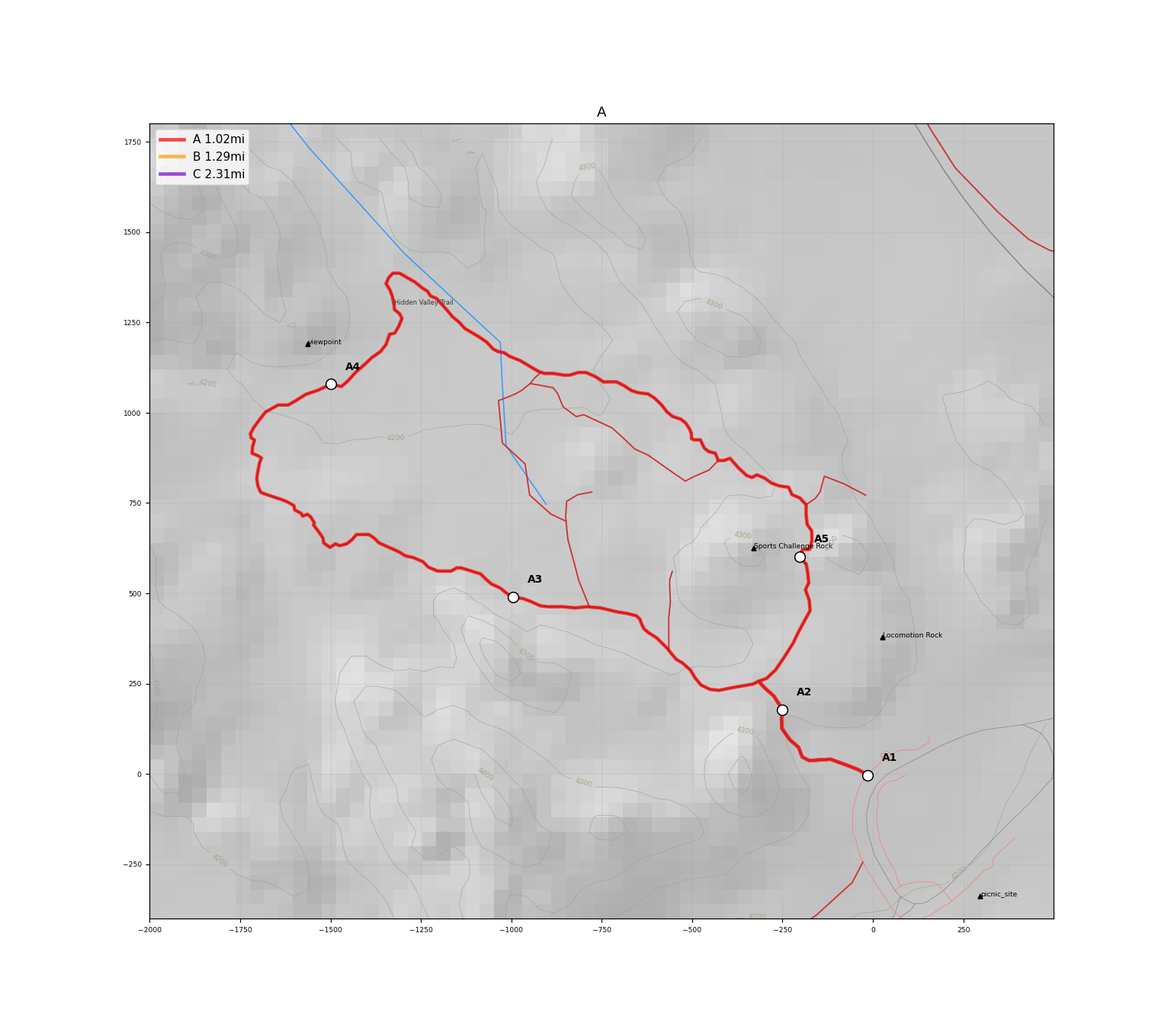
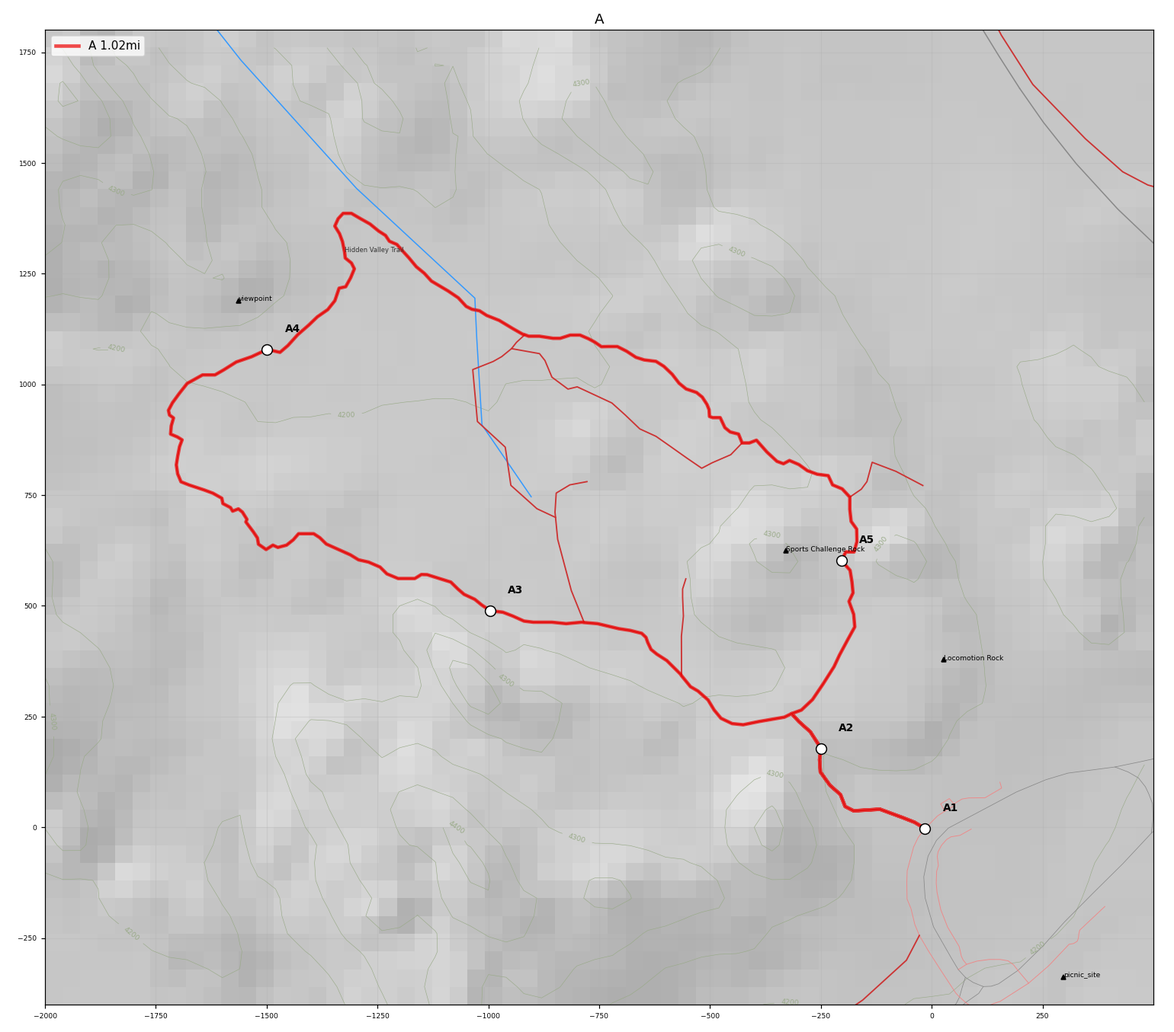
Review build: joshua-tree-hidden-valley

diff --git a/joshua-tree-hidden-valley/index.html b/joshua-tree-hidden-valley/index.html
@@ -571,8 +571,8 @@ const anim={};
   {const q=G(6540,6745),g=new THREE.Group();g.position.copy(q);g.rotation.y=1.289;world.add(g);
     part(g,box,"#BFB6A6",0,0.55,0,2.6,1.1,0.32,1.06);part(g,box,"#A79E8E",0,1.12,0,2.7,0.1,0.4,1.06);part(g,box,"#8E8576",0,0.25,0.22,2.6,0.5,0.12,1.06);}
   // reservoir (Barker Pool, OSM outline, enlarged)
-  {const P=[[6472,6596],[6542,6598],[6556,6604],[6560,6607],[6564,6612],[6570,6634],[6573,6640],[6576,6643],[6584,6648],[6599,6652],[6641,6657],[6651,6656],[6659,6654],[6669,6649],[6674,6644],[6680,6636],[6700,6597],[6702,6584],[6702,6556],[6673,6439],[6675,6429],[6680,6419],[6685,6414],[6696,6411],[6761,6419],[6782,6428],[6796,6439],[6817,6467],[6824,6472],[6829,6473],[6838,6472],[6844,6471],[6896,6425],[6913,6416],[6920,6415],[6929,6414],[6963,6419],[6973,6417],[6993,6407],[7014,6390],[7180,6212],[7204,6198],[7214,6195],[7226,6194],[7271,6199],[7280,6203],[7285,6208],[7291,6217],[7293,6223],[7294,6234],[7288,6290],[7292,6308],[7296,6314],[7302,6320],[7332,6338],[7348,6343],[7379,6348],[7576,6348],[7630,6344],[7723,6325],[7743,6326],[7749,6328],[7755,6332],[7767,6349],[7770,6355],[7770,6362],[7767,6367],[7760,6375],[7681,6416],[7614,6435],[7522,6448],[7489,6459],[7454,6481],[7332,6609],[7252,6680],[7199,6745],[7133,6858],[7125,6881],[7122,6896],[7123,6919],[7127,6933],[7137,6948],[7252,7056],[7283,7095],[7287,7104],[7288,7109],[7286,7115],[7283,7118],[7275,7119],[7232,7118],[7212,7111],[7190,7098],[7119,7025],[7099,7013],[7090,7010],[7020,7006],[6959,7018],[6955,7020],[6949,7025],[6947,7028],[6946,7033],[6953,7058],[6953,7061],[6952,7066],[6951,7068],[6949,7070],[6903,7094],[6900,7096],[6900,7098],[6900,7102],[6901,7105],[6923,7135],[6926,7144],[6926,7148],[6926,7153],[6919,7171],[6854,7242],[6852,7245],[6852,7249],[6852,7252],[6856,7259],[6859,7261],[6861,7262],[6866,7261],[6869,7260],[6896,7248],[6900,7247],[6904,7247],[6906,7249],[6907,7251],[6908,7256],[6906,7280],[6902,7291],[6895,7302],[6871,7325],[6868,7331],[6868,7335],[6871,7344],[6874,7348],[6921,7396],[6925,7400],[6927,7407],[6927,7410],[6925,7413],[6861,7433],[6805,7461],[6795,7470],[6784,7483],[6767,7523],[6756,7538],[6739,7553],[6678,7586],[6668,7588],[6663,7585],[6657,7577],[6655,7569],[6686,7392],[6726,7237],[6724,7222],[6719,7207],[6716,7203],[6713,7199],[6702,7192],[6667,7180],[6660,7179],[6655,7180],[6641,7184],[6598,7217],[6581,7223],[6524,7229],[6511,7236],[6506,7240],[6484,7283],[6396,7364],[6388,7368],[6385,7365],[6385,7354],[6471,7164],[6487,7102],[6481,6989],[6462,6931],[6444,6899],[6426,6813],[6347,6737],[6210,6717],[6126,6694],[6126,6674],[6128,6651],[6128,6642],[6126,6636],[6120,6632],[6118,6625],[6120,6617],[6122,6606],[6126,6596],[6132,6589],[6139,6584],[6147,6577],[6159,6533],[6175,6521],[6181,6503],[6280,6536],[6318,6573],[6472,6596]];if(P.length>2){const sh=new THREE.Shape(P.map(([x,n])=>new THREE.Vector2(x,n)));const geo=new THREE.ShapeGeometry(sh);const pa=geo.attributes.position;
-    let y0=1e9;for(let i=0;i<pa.count;i++){const v=G(pa.getX(i),pa.getY(i));y0=Math.min(y0,v.y);}
+  {const P=[[6329,6500],[6425,6503],[6444,6511],[6450,6515],[6454,6521],[6462,6552],[6467,6560],[6471,6564],[6482,6571],[6503,6577],[6560,6584],[6574,6583],[6584,6579],[6597,6573],[6604,6566],[6613,6555],[6640,6502],[6643,6484],[6643,6446],[6604,6286],[6605,6273],[6613,6258],[6620,6252],[6634,6248],[6724,6259],[6752,6271],[6771,6287],[6800,6325],[6809,6331],[6816,6333],[6828,6331],[6836,6329],[6907,6267],[6931,6255],[6940,6253],[6953,6252],[6998,6258],[7012,6256],[7040,6242],[7069,6219],[7295,5977],[7328,5958],[7340,5954],[7358,5951],[7418,5959],[7431,5965],[7438,5971],[7446,5983],[7449,5992],[7451,6006],[7442,6084],[7448,6108],[7453,6115],[7461,6124],[7501,6148],[7523,6156],[7567,6162],[7835,6162],[7908,6157],[8036,6131],[8062,6132],[8070,6135],[8078,6140],[8095,6163],[8099,6172],[8099,6181],[8095,6188],[8085,6199],[7978,6255],[7887,6281],[7760,6299],[7716,6314],[7668,6344],[7501,6518],[7393,6615],[7320,6704],[7230,6858],[7219,6888],[7215,6909],[7217,6941],[7222,6959],[7236,6980],[7393,7128],[7434,7181],[7441,7193],[7442,7200],[7439,7208],[7434,7212],[7424,7214],[7366,7212],[7338,7203],[7308,7184],[7212,7085],[7185,7069],[7172,7064],[7076,7059],[6994,7075],[6987,7078],[6980,7085],[6977,7089],[6976,7096],[6986,7130],[6986,7134],[6984,7141],[6983,7144],[6979,7147],[6917,7179],[6913,7182],[6912,7185],[6912,7191],[6914,7194],[6944,7235],[6948,7248],[6948,7253],[6948,7260],[6939,7284],[6850,7381],[6848,7385],[6847,7391],[6848,7395],[6853,7405],[6857,7407],[6860,7408],[6866,7407],[6871,7406],[6907,7390],[6913,7387],[6918,7389],[6921,7391],[6923,7394],[6924,7401],[6920,7433],[6915,7448],[6906,7463],[6873,7494],[6870,7502],[6870,7508],[6873,7520],[6877,7526],[6942,7591],[6947,7597],[6949,7606],[6949,7610],[6947,7615],[6860,7642],[6784,7680],[6769,7692],[6755,7710],[6731,7764],[6717,7785],[6693,7806],[6611,7850],[6596,7853],[6589,7849],[6581,7837],[6578,7826],[6622,7586],[6676,7374],[6673,7354],[6666,7334],[6661,7327],[6658,7323],[6643,7313],[6595,7297],[6585,7296],[6578,7297],[6559,7302],[6500,7347],[6478,7355],[6400,7363],[6382,7373],[6375,7379],[6346,7438],[6226,7547],[6214,7552],[6211,7549],[6211,7534],[6327,7275],[6350,7191],[6341,7036],[6316,6957],[6291,6914],[6267,6796],[6159,6693],[5972,6666],[5858,6634],[5857,6607],[5860,6575],[5860,6563],[5857,6555],[5849,6549],[5847,6540],[5849,6529],[5852,6514],[5858,6500],[5865,6491],[5876,6484],[5886,6475],[5902,6414],[5924,6398],[5933,6374],[6068,6418],[6119,6469],[6329,6500]];if(P.length>2){const sh=new THREE.Shape(P.map(([x,n])=>new THREE.Vector2(x,n)));const geo=new THREE.ShapeGeometry(sh);const pa=geo.attributes.position;
+    const y0=G(6864,6859).y+0.3;
     for(let i=0;i<pa.count;i++){const v=G(pa.getX(i),pa.getY(i));pa.setXYZ(i,v.x,y0+0.18,v.z);}
     pa.needsUpdate=true;geo.computeVertexNormals();const m=new THREE.Mesh(geo,new THREE.MeshLambertMaterial({color:"#8FC6DA",side:THREE.DoubleSide}));m.renderOrder=1;world.add(m);}}
   // petroglyph boulder: a dark-varnished overhanging rock
@@ -961,7 +961,7 @@ function fitFor(v,az,el){
   const fwd=dirOf(az,el).negate(),right=new THREE.Vector3().crossVectors(fwd,new THREE.Vector3(0,1,0)).normalize(),up=new THREE.Vector3().crossVectors(right,fwd).normalize();
   const pts=viewPoints(v);let mu=1e9,Mu=-1e9,mv=1e9,Mv=-1e9;pts.forEach(p=>{const u=p.dot(right),vv=p.dot(up);mu=Math.min(mu,u);Mu=Math.max(Mu,u);mv=Math.min(mv,vv);Mv=Math.max(Mv,vv);});
   const pad=v==="all"?1:1.25,du=(Mu-mu)*pad,dv=(Mv-mv)*pad,aw=Math.max(80,W-m.l-m.r),ah=Math.max(80,Hh-m.t-m.b);
-  let zoom=Math.min(aw*VIEW/(du*Hh),ah*VIEW/(dv*Hh));if(v!=="all")zoom=Math.min(zoom,fitFor("all",VIEWAZ.all,0.58).zoom*({"A": 4.2, "B": 5.0, "C": 3.4}[v]||2.4));
+  let zoom=Math.min(aw*VIEW/(du*Hh),ah*VIEW/(dv*Hh));if(v!=="all")zoom=Math.min(zoom,fitFor("all",VIEWAZ.all,0.58).zoom*({"A": 5.2, "B": 5.0, "C": 3.4}[v]||2.4));
   const wpp=VIEW/(Hh*zoom),target=new THREE.Vector3().copy(right).multiplyScalar((mu+Mu)/2).addScaledVector(up,(mv+Mv)/2).addScaledVector(right,-(m.l-m.r)/2*wpp).addScaledVector(up,(m.t-m.b)/2*wpp);
   return {zoom,target};}
 function fitGoal(){if(!stage.clientWidth||!stage.clientHeight)return;const f=fitFor(view,goal.az,goal.el);goal.zoom=f.zoom;goal.target.copy(f.target);}

diff --git a/_review/jthiddenvalley/jthiddenvalley_sheet.py b/_review/jthiddenvalley/jthiddenvalley_sheet.py
@@ -1,0 +1,267 @@
+from lib import *
+from mk_sheet import build
+import sys, json, os, re, math, random
+import numpy as np
+
+os.chdir('/home/claude/parks')
+# origin: Hidden Valley Nature Trail trailhead (Hiking Project 34.012391, -116.168039)
+p = Park('jthiddenvalley', 34.0124, -116.1680)
+TH = (-15, -3)            # Hidden Valley trailhead, picnic area
+LOT = (7840, 4640)        # Barker Dam parking area (B west side, C east side)
+MILL = (10415, 9054)      # end of the OSM Wall Street Mill Trail at the mill
+R = {}
+R['A'] = route_xy(p, TH, (-550, 240), (-1600, 900), (-1250, 1380), (-170, 720), TH)
+R['B'] = route_xy(p, LOT, (7050, 6490), (6100, 6000), (6340, 5050), (7000, 5150), LOT)
+R['C'] = route_xy(p, LOT, MILL, LOT)
+for k in R: Park.smooth_E(R[k], 9); p.describe(R[k], k)
+am = lambda k, mi: p.at_mile(R[k], mi)[0]
+ST = snap_stops(p, R, {
+    'S1': (*LOT, 'BC'),
+    'A1': (*TH, 'A'), 'A2': (-250, 178, 'A'), 'A3': (-996, 489, 'A'), 'A4': (-1499, 1079, 'A'), 'A5': (-203, 602, 'A'),
+    'B1': (7209, 6158, 'B'), 'B2': (6540, 6720, 'B'), 'B3': (6212, 5828, 'B'), 'B4': (6353, 5032, 'B'),
+    'C1': (10117, 6621, 'C'), 'C2': (10524, 7611, 'C'), 'C3': (*am('C', 0.97), 'C'), 'C4': (*MILL, 'C'),
+})
+TILE = (-5200, 14200, -3750, 12750)
+GRID = (-5600, 14600, -4100, 13100)
+if 'plot' in sys.argv:
+    from plot import plot
+    sa = {k: v for k, v in ST.items() if k.startswith('A')}
+    sb = {k: v for k, v in ST.items() if not k.startswith('A')}
+    plot(p, (-2000, 500, -400, 1800), 'jthiddenvalley/routes_A.png', routes={'A': R['A']}, stops=sa, title='A', grid=250)
+    plot(p, (5500, 11000, 4200, 9500), 'jthiddenvalley/routes_BC.png', routes={'B': R['B'], 'C': R['C']}, stops=sb, title='BC', grid=500)
+    sys.exit()
+
+STEP = 100
+b64, NX, NN = p.dem_b64(*GRID, STEP=STEP)
+RIDGE = int(np.percentile(p.grid, 75))
+print('grid', NX, NN, NX * NN, p.grid.min(), p.grid.max(), 'p75', RIDGE)
+
+S = lambda i: ST[i]
+stops = [
+ dict(id='S1', trails=['B', 'C'], x=S('S1')[0], n=S('S1')[1], name='Barker Dam parking area', desc='A paved lot at the end of Barker Dam Road with vault toilets. The Barker Dam loop leaves from its west side and the Wall Street Mill trail from its east side. It fills by midday on busy days.'),
+ dict(id='A1', trails=['A'], x=S('A1')[0], n=S('A1')[1], name='Hidden Valley trailhead', desc='At the Hidden Valley picnic area on Park Boulevard. No water here or on the trail.'),
+ dict(id='A2', trails=['A'], x=S('A2')[0], n=S('A2')[1], name='Gap in the rock wall', desc='Steps lead up and over a low gap into the valley. In 1936 rancher Bill Keys blasted this notch through the boulders so his cattle could reach the grass inside.'),
+ dict(id='A3', trails=['A'], x=S('A3')[0], n=S('A3')[1], name='Valley floor', desc='A flat, sandy floor ringed by boulder walls. The enclosure catches more rain than the land around it, so plants grow thicker here, with Joshua trees, yuccas, cacti, pinyon pines and scrub oaks side by side. Signs along the way name them.'),
+ dict(id='A4', trails=['A'], x=S('A4')[0], n=S('A4')[1], name='Far end of the valley', desc='The loop’s halfway point, an open, level spot at the back of the valley looking back toward the entrance. The valley was rumored to have hidden cattle rustlers and their herds.'),
+ dict(id='A5', trails=['A'], x=S('A5')[0], n=S('A5')[1], name='Sports Challenge Rock', desc='Near the end of the loop the trail climbs a few steps past this tall, smooth rock face, one of the park’s best-known climbing walls. Climbers are often on it in the cooler months.'),
+ dict(id='B1', trails=['B'], x=S('B1')[0], n=S('B1')[1], name='Into the boulders', desc='The trail winds north between piles of rounded monzogranite at the southern edge of the Wonderland of Rocks.'),
+ dict(id='B2', trails=['B'], x=S('B2')[0], n=S('B2')[1], name='Barker Dam', desc='Cattlemen including C. O. Barker built the dam around 1900 to hold rainwater for stock. Rancher Bill Keys raised it six feet in 1949–50; his inscription on top calls it Big Horn Dam. The water level depends on rain. When the reservoir is full it draws birds and desert bighorn sheep.'),
+ dict(id='B3', trails=['B'], x=S('B3')[0], n=S('B3')[1], name='Joshua tree flats', desc='Past the dam the trail drops onto open, sandy flats of Joshua trees, yuccas and cacti, passing an old cattle trough.'),
+ dict(id='B4', trails=['B'], x=S('B4')[0], n=S('B4')[1], name='Petroglyphs', desc='A short side path leads to an overhanging boulder with Native American petroglyphs. A Disney film crew painted over the carvings in 1961 to make them show on camera, so they look brighter than the originals. Look, don’t touch.'),
+ dict(id='C1', trails=['C'], x=S('C1')[0], n=S('C1')[1], name='Windmill', desc='An old, rusting windmill stands just right of the trail. A side trail before it leads to the ruins of Wonderland Ranch.'),
+ dict(id='C2', trails=['C'], x=S('C2')[0], n=S('C2')[1], name='Worth Bagley stone', desc='Here Bill Keys and his neighbor Worth Bagley met in a 1943 gunfight over the road to the mill; Bagley was killed. Keys served five years for manslaughter, was pardoned in 1956, and later set this stone himself. The original was vandalized in 2014; a steel replica stands in its place.'),
+ dict(id='C3', trails=['C'], x=S('C3')[0], n=S('C3')[1], name='Sandy wash', desc='For the last stretch the trail drops into a sandy wash that leads to the mill, past rusted-out cars from the 1930s and 1940s.'),
+ dict(id='C4', trails=['C'], x=S('C4')[0], n=S('C4')[1], name='Wall Street Mill', desc='Bill Keys built this two-stamp mill in 1933 to crush gold ore, and ran it for miners in the area for decades. The mill shed, well and pump, ore-cart rails and winch still stand against a pile of white granite boulders. Leave everything in place.'),
+]
+stops, order = renumber(p, R, stops)
+print(order, [(s['id'], s['name']) for s in stops])
+trails = [
+ dict(id='A', name='Hidden Valley Nature Trail', short='Hidden Valley', official=1.0, unit='loop', route='Loop', time='1 hr', level='Easy', color='--tA',
+      desc='From the Hidden Valley picnic area, steps lead through a gap in the boulders into a small valley walled in by rock. The sandy loop circles the valley floor past signs about its plants and animals; the enclosure holds more moisture than the desert around it. Rock climbers are often on the walls. No dogs.', anchors=p.anchors(R['A'], every=40)),
+ dict(id='B', name='Barker Dam Trail', short='Barker Dam', official=1.1, unit='loop', route='Loop', time='1 hr', level='Easy', color='--tB',
+      desc='A nearly flat loop from the west side of the Barker Dam lot, usually walked counterclockwise. It threads north between boulders to the small reservoir behind Barker Dam, then returns south across Joshua tree flats with a short side path to a petroglyph boulder. Busy at midday.', anchors=p.anchors(R['B'], every=50)),
+ dict(id='C', name='Wall Street Mill Trail', short='Wall Street Mill', official=2.0, unit='round trip', route='Out and back', time='1–1.5 hr', level='Moderate', color='--tC',
+      desc='From the east side of the Barker Dam lot, a flat, sandy trail heads northeast across open desert past an old windmill, the Worth Bagley stone and rusting cars to Bill Keys’ Wall Street Mill, where gold ore was crushed until the 1960s. Little shade. A smaller lot off Queen Valley Road shortens the walk.', anchors=p.anchors(R['C'])),
+]
+
+# ---- animals (spread out along the trails)
+pa = place_along
+A_ = lambda k, f, s=1, o=240: pa(p, R[k], f, s, o)
+an = []
+an += [f'{{k:"bighorn",path:{js(A_("B",[.3],1,450)[0]+A_("B",[.34],1,450)[0])},per:30}}', f'{{k:"bighorn",at:{js(A_("C",[.58],-1,900)[0])},flock:2}}']
+an += [f'{{k:"coyote",path:{js(A_("C",[.2],1,380)[0]+A_("C",[.25],1,380)[0])},per:24}}']
+an += [f'{{k:"squirrel",at:{js(A_("A",[.3],1,120)[0])},hop:true}}', f'{{k:"squirrel",at:{js(A_("C",[.33],-1,200)[0])},hop:true}}']
+an += [f'{{k:"quail",at:{js(A_("B",[.8],-1,220)[0])},flock:3}}']
+an += [f'{{k:"snake",path:{js(A_("A",[.7],1,110)[0]+A_("A",[.72],1,110)[0])},per:30}}']
+an += [f'{{k:"turtle",path:{js(A_("C",[.12],-1,300)[0]+A_("C",[.13],-1,300)[0])},per:60}}']
+an += [f'{{k:"heron",at:[6745,6735]}}']
+animals_js = '[\n ' + ',\n '.join(an) + '\n]'
+
+# ---- terrain dressing: boulder piles at OSM rock features, Joshua trees on the flats
+X0i, X1i, N0i, N1i = TILE[0] + 1200, TILE[1] - 1200, TILE[2] + 1200, TILE[3] - 1200
+TP = np.array([q for k in R for q in R[k]['pts']])
+def near_trail(x, n, d): return np.min(np.hypot(TP[:, 0] - x, TP[:, 1] - n)) < d
+piles = []
+for w in p.W:
+    t = w.get('tags') or {}
+    if t.get('natural') not in ('bare_rock', 'stone') and not t.get('climbing'): continue
+    P = np.array([p.xy(q) for q in w['p']]); cx, cn = P.mean(0)
+    if not (X0i < cx < X1i and N0i < cn < N1i): continue
+    r = max(70, min(380, (np.ptp(P[:, 0]) + np.ptp(P[:, 1])) / 4))
+    if near_trail(cx, cn, 60 + r * 0.6): continue
+    if any(math.hypot(cx - a, cn - b) < 90 for a, b, _ in piles): continue
+    piles.append((round(cx), round(cn), round(r)))
+# monzogranite ridges: add piles on rough high ground the OSM points miss
+rng = random.Random(7)
+def slope(x, n): return math.hypot(p.elev(x + 60, n) - p.elev(x - 60, n), p.elev(x, n + 60) - p.elev(x, n - 60)) / 120
+tries = 0
+while len([1 for q in piles]) < 230 and tries < 6000:
+    tries += 1
+    x, n = rng.uniform(X0i, X1i), rng.uniform(N0i, N1i)
+    if slope(x, n) < 0.22 or near_trail(x, n, 120): continue
+    if any(math.hypot(x - a, n - b) < 260 for a, b, _ in piles): continue
+    piles.append((round(x), round(n), rng.choice([90, 130, 180, 240])))
+jts = []
+tries = 0
+while len(jts) < 260 and tries < 20000:
+    tries += 1
+    x, n = rng.uniform(X0i, X1i), rng.uniform(N0i, N1i)
+    if slope(x, n) > 0.12 or near_trail(x, n, 70): continue
+    if any(math.hypot(x - a, n - b) < 140 for a, b, _ in piles): continue
+    if any(math.hypot(x - a, n - b) < 230 for a, b, _, _ in jts): continue
+    jts.append((round(x), round(n), round(rng.uniform(1.3, 2.3), 2), rng.randrange(6)))
+print('piles', len(piles), 'jtrees', len(jts))
+
+W = json.load(open('jthiddenvalley/water.json')) if os.path.exists('jthiddenvalley/water.json') else {}
+pool = [p.xy(q) for q in p.WID['678429824']['p']] if '678429824' in p.WID else []
+dam = [p.xy(q) for q in p.WID['1575997759']['p']] if '1575997759' in p.WID else [(6525, 6797), (6555, 6694)]
+pcx, pcn = (np.mean([a for a, b in pool]), np.mean([b for a, b in pool])) if pool else (6740, 6730)
+POOL = [[round(pcx + (a - pcx) * 3.0), round(pcn + (b - pcn) * 3.0)] for a, b in pool]   # drawn larger than life
+d0, d1 = dam[0], dam[-1]
+dmx, dmn = (d0[0] + d1[0]) / 2, (d0[1] + d1[1]) / 2
+dang = math.atan2(d1[1] - d0[1], d1[0] - d0[0])
+g = {s['name']: s for s in stops}
+a1, s1 = g['Hidden Valley trailhead'], g['Barker Dam parking area']
+lm = """  gate(%(ax)d,%(an)d,0.6);gate(%(sx)d,%(sn)d,0.2);
+  // monzogranite boulder piles (OSM rock features plus rough high ground)
+  function pile(x,n,r,i){const q=G(x,n),s=r*0.0068,g=new THREE.Group();g.position.copy(q);g.rotation.y=i*0.9;world.add(g);
+    const cs=["#D8C3A2","#CDB592","#E2CFB0"];const k=3+(i%%3);
+    for(let j=0;j<k;j++){const a=j/k*Math.PI*2+i,d=j?0.45*s:0;const b=part(g,new THREE.IcosahedronGeometry(1,1),cs[(i+j)%%3],Math.cos(a)*d,(j?0.32:0.48)*s,Math.sin(a)*d,(j?0.42:0.6)*s,(j?0.34:0.5)*s,(j?0.4:0.55)*s,1.06);rot(b,0.2*j,a,0.1);}}
+  %(piles)s.forEach(([x,n,r],i)=>pile(x,n,r,i));
+  // Joshua trees: shaggy trunk, a few angled arms, spiky leaf clusters at the tips
+  function jtree(x,n,h,i){const g=new THREE.Group();g.position.copy(G(x,n));g.rotation.y=i*1.1;world.add(g);const tc="#7E6C55",lc="#7C8F4A";
+    const t0=h*(0.45+0.08*(i%%3));part(g,cyl,tc,0,t0/2,0,0.09,t0,0.09,1.05);
+    const arms=[[0.7,0],[-0.6,2.2],[0.5,4.1],[-0.8,1.1]].slice(0,2+(i%%3));
+    arms.forEach(([tl,az],j)=>{const a=new THREE.Group();a.position.set(0,t0,0);a.rotation.y=az+i;g.add(a);
+      const len=h*(0.38+0.06*j);const b=part(a,cyl,tc,0,len/2,0,0.06,len,0.06,1.05);
+      const sub=new THREE.Group();sub.rotation.z=tl;a.add(sub);sub.add(b);b.position.set(0,len/2,0);
+      const tip=new THREE.Vector3(0,len,0);part(sub,new THREE.IcosahedronGeometry(1,0),lc,tip.x,tip.y+0.08,tip.z,0.2,0.18,0.2,1.1);
+      for(let s=0;s<5;s++){const c=part(sub,new THREE.ConeGeometry(0.05,0.32,4),lc,tip.x,tip.y+0.08,tip.z,1,1,1,1.1);rot(c,Math.cos(s*1.26)*1.0,0,Math.sin(s*1.26)*1.0);}});}
+  %(jts)s.forEach(([x,n,h,i])=>jtree(x,n,h,i));
+  // Barker Dam: concrete wall on the OSM dam line, drawn larger than life
+  {const q=G(%(dmx)d,%(dmn)d),g=new THREE.Group();g.position.copy(q);g.rotation.y=%(dry).3f;world.add(g);
+    part(g,box,"#BFB6A6",0,0.55,0,2.6,1.1,0.32,1.06);part(g,box,"#A79E8E",0,1.12,0,2.7,0.1,0.4,1.06);part(g,box,"#8E8576",0,0.25,0.22,2.6,0.5,0.12,1.06);}
+  // reservoir (Barker Pool, OSM outline, enlarged)
+  {const P=%(pool)s;if(P.length>2){const sh=new THREE.Shape(P.map(([x,n])=>new THREE.Vector2(x,n)));const geo=new THREE.ShapeGeometry(sh);const pa=geo.attributes.position;
+    const y0=G(%(pcx)d,%(pcn)d).y+0.3;
+    for(let i=0;i<pa.count;i++){const v=G(pa.getX(i),pa.getY(i));pa.setXYZ(i,v.x,y0+0.18,v.z);}
+    pa.needsUpdate=true;geo.computeVertexNormals();const m=new THREE.Mesh(geo,new THREE.MeshLambertMaterial({color:"#8FC6DA",side:THREE.DoubleSide}));m.renderOrder=1;world.add(m);}}
+  // petroglyph boulder: a dark-varnished overhanging rock
+  {const q=G(%(px)d,%(pn)d),g=new THREE.Group();g.position.copy(q);g.rotation.y=0.4;world.add(g);
+    part(g,new THREE.IcosahedronGeometry(1,1),"#D2BC98",0,0.7,0,1.1,0.8,0.9,1.06);part(g,new THREE.IcosahedronGeometry(1,1),"#C8B08A",0.5,1.3,0.1,0.9,0.45,0.75,1.06);
+    part(g,box,"#5A3E2E",0.05,0.75,0.88,0.9,0.5,0.04,0);[[-0.2,0.85],[0.15,0.7],[0.35,0.9]].forEach(([x,y])=>part(g,box,"#E9D6B0",x,y,0.91,0.12,0.12,0.02,0));}
+  // windmill: lattice tower with a bladed wheel and tail vane
+  {const q=G(%(wx)d,%(wn)d),g=new THREE.Group();g.position.copy(q);g.rotation.y=0.9;world.add(g);const c="#7A5A44";
+    [[1,1],[1,-1],[-1,1],[-1,-1]].forEach(([a,b])=>{const l=part(g,cyl,c,a*0.45,2.2,b*0.45,0.08,4.5,0.08,1.06);rot(l,-b*0.1,0,a*0.1);});
+    [1.0,2.1,3.2].forEach((y,i)=>part(g,box,c,0,y,0,0.85-i*0.2,0.08,0.85-i*0.2,1.06));
+    const hub=new THREE.Group();hub.position.set(0.3,4.55,0);g.add(hub);part(hub,cyl,"#5A5A5A",0,0,0,0.12,0.25,0.12,0).rotation.z=Math.PI/2;
+    for(let b=0;b<12;b++){const bl=part(hub,box,"#9AA0A3",0.05,0,0,0.06,1.0,0.22,1.06);const a=b/12*Math.PI*2;bl.position.set(0.05,Math.cos(a)*0.6,Math.sin(a)*0.6);bl.rotation.x=a;}
+    part(g,box,"#9AA0A3",-0.6,4.55,0,1.1,0.08,0.06,1.06);part(g,box,"#B5523B",-1.2,4.55,0,0.08,0.55,0.75,1.06);}
+  // Worth Bagley stone (steel replica), upright and oversized
+  {const q=G(%(bx)d,%(bn)d);part(world,box,"#B9A98E",q.x,q.y+0.1,q.z,1.2,0.2,0.7,1.06);part(world,box,"#6E3F2A",q.x,q.y+1.05,q.z,0.9,1.8,0.25,1.06);}
+  // Wall Street Mill: tin-sided mill shed, ore chute, a rusted truck
+  {const q=G(%(mx)d,%(mn)d),g=new THREE.Group();g.position.copy(q);g.rotation.y=0.5;world.add(g);
+    part(g,box,"#8C98A0",0,0.8,0,1.6,1.6,1.2,1.06);const r=part(g,box,"#6F7B83",0,1.75,0,1.8,0.12,1.4,1.06);rot(r,0.18,0,0);
+    part(g,box,"#7A5A44",1.0,1.2,0,0.25,2.4,0.25,1.06);const ch=part(g,box,"#7A5A44",1.9,1.5,0,2.0,0.14,0.3,1.06);rot(ch,0,0,-0.35);
+    part(g,box,"#8A4B2E",-1.6,0.3,0.9,0.9,0.35,0.45,1.06);part(g,box,"#7A4028",-1.85,0.6,0.9,0.4,0.3,0.42,1.06);
+    [[-1.3,0.7],[-1.3,1.1],[-1.95,0.7],[-1.95,1.1]].forEach(([x,z])=>{const w=part(g,cyl,"#2E2A26",x,0.13,z,0.13,0.08,0.13,0);rot(w,Math.PI/2,0,0);});}
+""" % dict(ax=a1['x'] + 60, an=a1['n'] - 40, sx=s1['x'] + 40, sn=s1['n'] - 60,
+           piles=js(piles), jts=js(jts), dmx=dmx, dmn=dmn, dry=-dang, pool=js(POOL), pcx=pcx, pcn=pcn,
+           px=g['Petroglyphs']['x'] - 70, pn=g['Petroglyphs']['n'] - 30, wx=10117, wn=6621, bx=10524, bn=7611,
+           mx=10430, mn=9110)
+
+def wid(i): return i if i in p.WID else int(i)
+creeks = []
+for cid, ids in (('hv', ['422107525']), ('barker', ['422107517', '422107518', '422107523']), ('wsm', ['752875052'])):
+    try:
+        c = p.creek([wid(i) for i in ids], GRID, minor=True)
+        if c and c.get('pts'): creeks.append(dict(id=cid, **c))
+    except Exception as ex: print('creek', cid, ex)
+print('creeks', [c['id'] for c in creeks])
+
+species_extra = {
+ 'jt_joshua': 'jt_joshua:{name:"Joshua tree",latin:"Yucca brevifolia",color:"#EDEBCF",shape:"yucca",bloom:[2,3,4],sum:"The park’s namesake, a tree-sized yucca with shaggy trunks and clusters of stiff, spiky leaves. Thick on the flats around Barker Dam and along the Wall Street Mill trail. In spring some branch tips carry heavy clusters of creamy flowers, pollinated only by the yucca moth.",rule:(d,e,g,s)=>g<0.4}',
+ 'jt_mojyucca': 'jt_mojyucca:{name:"Mojave yucca",latin:"Yucca schidigera",color:"#F3EFDF",shape:"yucca",bloom:[2,3,4],sum:"A shorter, shrubby yucca with long, sharp leaves and cream flower clusters in late winter and early spring, also pollinated by yucca moths.",rule:(d,e,g,s)=>g<0.6}',
+ 'beavertail': 'beavertail:{name:"Beavertail cactus",latin:"Opuntia basilaris",color:"#D9418C",shape:"pad",bloom:[3,4,5],sum:"Flat, blue-gray pads that look spineless (the tiny bristles still hurt), with bright magenta flowers in spring. Rangers log it around Barker Dam.",rule:(d,e,g,s)=>g<0.8}',
+ 'jt_mojmound': 'jt_mojmound:{name:"Mojave mound cactus",latin:"Echinocereus triglochidiatus",color:"#D0283A",shape:"pad",bloom:[4,5],sum:"Mounds of ribbed, spiny stems tucked among boulders, covered in waxy scarlet cups in April and May. Hummingbirds pollinate them.",rule:(d,e,g,s)=>g>0.15}',
+ 'jt_goldenbush': 'jt_goldenbush:{name:"Interior goldenbush",latin:"Ericameria linearifolia",color:"#F2C230",shape:"dome",bloom:[3,4,5],sum:"A rounded shrub with narrow, sticky leaves that covers itself in yellow daisy-like flowers in spring. Among the most common spring bloomers around Barker Dam.",rule:(d,e,g,s)=>g<0.7}',
+ 'jt_dudleya': 'jt_dudleya:{name:"Rock live-forever",latin:"Dudleya saxosa",color:"#E8C64A",shape:"tube",bloom:[4,5,6],sum:"A succulent with fleshy gray-green rosettes wedged into cracks in the granite, sending up reddish stalks of small tubular flowers in late spring.",rule:(d,e,g,s)=>g>0.25}',
+}
+tree_rule = """if(mk<0.25){type=null;}
+    else if(cd<200){type=tr()<.45?"oak":"shrub";p=0.14;}
+    else if(g>0.9)type=null;
+    else{type=tr()<.15?"oak":"shrub";p=0.03+cl*.02;}"""
+
+# ---- photos
+MD = json.load(open('/mnt/files/gtb/photos/jthiddenvalley/photos_meta.json'))
+MM = {m['f']: m for v in MD.values() for m in v}
+def ph(*fs): return [dict(MM['../photos/' + f + '.jpg']) for f in fs if '../photos/' + f + '.jpg' in MM]
+SPM = {}
+for page in os.listdir('/home/claude/site/out'):
+    fp = '/home/claude/site/out/%s/index.html' % page
+    if not os.path.exists(fp): continue
+    for m in re.findall(r'\{"f":"\.\./photos/sp_[^}]*\}', open(fp).read()):
+        try: d = json.loads(m); SPM[d['f'].split('/')[-1][:-4]] = d
+        except Exception: pass
+def sp(*fs):
+    out = []
+    for f in fs:
+        if f in SPM: out.append(SPM[f])
+        elif '../photos/' + f + '.jpg' in MM: out.append(dict(MM['../photos/' + f + '.jpg']))
+        else: print('missing photo', f)
+    return out
+nm = {s['name']: s['id'] for s in stops}
+stop_photos = {nm['Hidden Valley trailhead']: ph('pl_jthiddenvalley_hv_1'),
+               nm['Valley floor']: ph('pl_jthiddenvalley_hvtrail_1', 'pl_jthiddenvalley_hvtrail_2', 'pl_jthiddenvalley_hv_2'),
+               nm['Barker Dam']: ph('pl_jthiddenvalley_bd_1', 'pl_jthiddenvalley_bd_3'),
+               nm['Into the boulders']: ph('pl_jthiddenvalley_bd_0'),
+               nm['Windmill']: ph('pl_jthiddenvalley_windmill_0', 'pl_jthiddenvalley_wsm_3'),
+               nm['Worth Bagley stone']: ph('pl_jthiddenvalley_bagley_0', 'pl_jthiddenvalley_bagley_1'),
+               nm['Wall Street Mill']: ph('pl_jthiddenvalley_wsm_0', 'pl_jthiddenvalley_wsm_2', 'pl_jthiddenvalley_wsm_1', 'pl_jthiddenvalley_car_0')}
+PETRO = [k for k in MD if k.startswith('petro')]
+KEEP_PETRO = json.load(open('jthiddenvalley/petro_keep.json')) if os.path.exists('jthiddenvalley/petro_keep.json') else []
+if KEEP_PETRO: stop_photos[nm['Petroglyphs']] = ph(*KEEP_PETRO)
+stop_photos = {k: v for k, v in stop_photos.items() if v}
+flower_photos = {'jt_joshua': sp('sp_joshuatree_0', 'sp_joshuatree_1', 'sp_joshuatree_2'), 'jt_mojyucca': sp('sp_mojaveyucca_0', 'sp_mojaveyucca_1', 'sp_mojaveyucca_2'),
+                 'beavertail': sp('sp_hs_beavertail_0', 'sp_hs_beavertail_1', 'sp_hs_beavertail_2'), 'jt_mojmound': sp('sp_mojmound_3', 'sp_mojmound_1', 'sp_mojmound_2'),
+                 'jt_goldenbush': sp('sp_goldenbush_1', 'sp_goldenbush_2', 'sp_goldenbush_3'), 'jt_dudleya': sp('sp_dudleya_saxosa_1', 'sp_dudleya_saxosa_3')}
+animal_photos = {'bighorn': sp('sp_bighorn_dl0', 'sp_bighorn_dl1'), 'coyote': sp('sp_coyote_0'), 'squirrel': sp('sp_wtantsquirrel_1', 'sp_wtantsquirrel_3'),
+                 'quail': sp('sp_gambelquail_0', 'sp_gambelquail_1'), 'snake': sp('sp_speckledrattle_0', 'sp_speckledrattle_1'), 'turtle': sp('sp_tortoise_0', 'sp_tortoise_2'),
+                 'heron': sp('sp_gbheron_dl_0', 'sp_gbheron_dl_1'), 'raven': sp('sp_sm_raven_0', 'sp_sm_raven_3'), 'hawk': sp('sp_redtail_1', 'sp_redtail_2')}
+flower_photos = {k: v for k, v in flower_photos.items() if v}; animal_photos = {k: v for k, v in animal_photos.items() if v}
+print('photos', {k: len(v) for k, v in {**stop_photos, **flower_photos, **animal_photos}.items()})
+
+cfg = dict(
+    title='Joshua Tree: Hidden Valley & Barker Dam', aria='Hidden Valley, Barker Dam and Wall Street Mill in Joshua Tree National Park', h1='Joshua Tree: Hidden Valley &amp; Barker Dam',
+    canyons=[], trees_anywhere=True, trails=trails, stops=stops, order=order,
+    species=['jt_joshua', 'jt_mojyucca', 'beavertail', 'jt_mojmound', 'jt_goldenbush', 'jt_dudleya'], species_extra=species_extra,
+    flora={'A': ['jt_joshua', 'jt_mojyucca', 'jt_mojmound', 'jt_dudleya', 'jt_goldenbush'], 'B': ['jt_joshua', 'jt_goldenbush', 'beavertail', 'jt_mojmound', 'jt_dudleya'], 'C': ['jt_joshua', 'jt_mojyucca', 'beavertail', 'jt_goldenbush']},
+    wild=['bighorn', 'coyote', 'squirrel', 'quail', 'snake', 'turtle', 'heron', 'raven', 'hawk'],
+    wild_sum={'bighorn': ('Desert bighorn sheep', 'Barker Dam is one of the likeliest places in the park to see them. They come down the boulders to drink when the reservoir holds water, most often early or late in the day. Keep your distance.'),
+              'coyote': ('Coyote', 'Common across the park and often seen trotting over the open flats along the Wall Street Mill trail at dawn and dusk. Never feed them.'),
+              'squirrel': ('White-tailed antelope squirrel', 'A small ground squirrel that runs with its white tail curled over its back, darting between boulders and shrubs even in midday heat.'),
+              'quail': ('Gambel’s quail', 'Coveys run between the shrubs around Barker Dam and Hidden Valley; males have a black teardrop plume and a chestnut cap.'),
+              'snake': ('Speckled rattlesnake', 'Its pale, mottled colors match the granite. Most active on warm days in spring and fall; watch where you put hands and feet among the boulders.'),
+              'turtle': ('Desert tortoise', 'A threatened species that spends most of the year in burrows and comes out mainly after spring rains. If you see one, keep your distance and never pick it up.'),
+              'heron': ('Great blue heron', 'When the reservoir behind Barker Dam holds water, wading birds such as herons sometimes stop to feed, a rare sight in the desert.'),
+              'raven': ('Common raven', 'Big black birds that patrol the parking lots and boulder piles in pairs. Keep food packed away.'),
+              'hawk': ('Red-tailed hawk', 'Soars over the open flats and perches on Joshua trees, hunting ground squirrels and rabbits.')},
+    grid=GRID, step=STEP, dem_b64=b64, tile=TILE, ve=2.6, ridge_ft=RIDGE,
+    palette='desert', tree_rule=tree_rule, rock_all_aspects=True,
+    landmarks=lm, animals_js=animals_js,
+    zoomcap={'A': 5.2, 'B': 5.0, 'C': 3.4},
+    overview=dict(h2='Hidden Valley, Barker Dam and Wall Street Mill',
+                  p='North of Park Boulevard, in the middle of Joshua Tree National Park, flats of Joshua trees run between piles of rounded monzogranite boulders at the edge of the Wonderland of Rocks, at about 4,200–4,300 ft. A is the Hidden Valley Nature Trail, a loop inside a ring of rock walls. B, the Barker Dam loop, visits a small reservoir built by cattlemen and a boulder of petroglyphs. C leaves the same lot for Bill Keys’ Wall Street Mill. All three are short and nearly flat. Pick a trail to focus the model; click anything on it for a quick note.',
+                  numbers='Plain number 1 is the Barker Dam parking area, where B and C both start. Lettered stops belong to one trail: A3 is the third stop on Trail A.',
+                  wild_h='Wildlife around Hidden Valley',
+                  note='<b>Open.</b> Joshua Tree National Park, California, open 24 hours year-round; no reservation or timed entry. Entrance fee $30 per private vehicle, $25 per motorcycle or $15 per person on foot or bike, good for 7 days. Hidden Valley picnic area is on Park Boulevard; Barker Dam parking is at the end of Barker Dam Road, a short paved road off Park Boulevard nearby. Both lots fill by midday on busy days. No water in the park interior, little shade, and no pets on the trails. Terrain from USGS elevation data, stylized; not for navigation.'),
+    links={'A': [('Hiking trails · NPS', 'https://www.nps.gov/jotr/planyourvisit/hiking.htm'), ('Hidden Valley Nature Trail · Hiking Project', 'https://www.hikingproject.com/trail/7016879/hidden-valley-nature-trail')],
+           'B': [('Barker Dam Nature Trail · Hiking Project', 'https://www.hikingproject.com/trail/7017697/barker-dam-nature-trail'), ('Barker Dam · Wikipedia', 'https://en.wikipedia.org/wiki/Barker_Dam_(California)')],
+           'C': [('Wall Street Mill Trailhead · NPS', 'https://www.nps.gov/places/wall-street-mill-trailhead.htm'), ('Wall Street Mill · Hikespeak', 'https://www.hikespeak.com/?p=10208'), ('Worth Bagley marker · NPS', 'https://www.nps.gov/jotr/learn/news/joshua-tree-national-park-replaces-historic-marker.htm')]},
+    extra_js='TRAILS.forEach(T=>{const g={A:100,B:50,C:115}[T.id];if(g)T.gain=g;});\n// out-and-back: report the outbound mile for a stop\nmileOf=function(T,x,n){let b=null;T.pts.forEach(p=>{const d=Math.hypot(p.x-x,p.n-n);if(!b||d<b.d)b={d,m:p.m,e:p.e};});if(!b||b.d>=260)return null;const f=T.pts.find(p=>Math.hypot(p.x-x,p.n-n)<b.d+60);return {d:b.d,m:f.m,e:f.e};};\n// open a trail view from #trail-X\nwindow.addEventListener("load",()=>{const m=(location.hash||"").match(/trail-([ABC])/);if(m)setTimeout(()=>{const b=document.querySelector(\'#switch [data-v="\'+m[1]+\'"]\');if(b)b.click();},800);});\nwindow.addEventListener("hashchange",()=>{const m=(location.hash||"").match(/trail-([ABC])/);const b=m&&document.querySelector(\'#switch [data-v="\'+m[1]+\'"]\');if(b)b.click();});',
+    viewaz={'all': 0.55, 'A': 0.6, 'B': 0.5, 'C': 0.7},
+    stop_photos=stop_photos, flower_photos=flower_photos, animal_photos=animal_photos,
+)
+json.dump({k: {'mi': R[k]['mi'], 'gain': R[k]['gain'], 'lo': R[k]['lo'], 'hi': R[k]['hi']} for k in R}, open('jthiddenvalley/stats.json', 'w'))
+os.makedirs('/home/claude/site/out/joshua-tree-hidden-valley', exist_ok=True)
+print(build(cfg, '/home/claude/site/out/joshua-tree-hidden-valley/index.html'))
